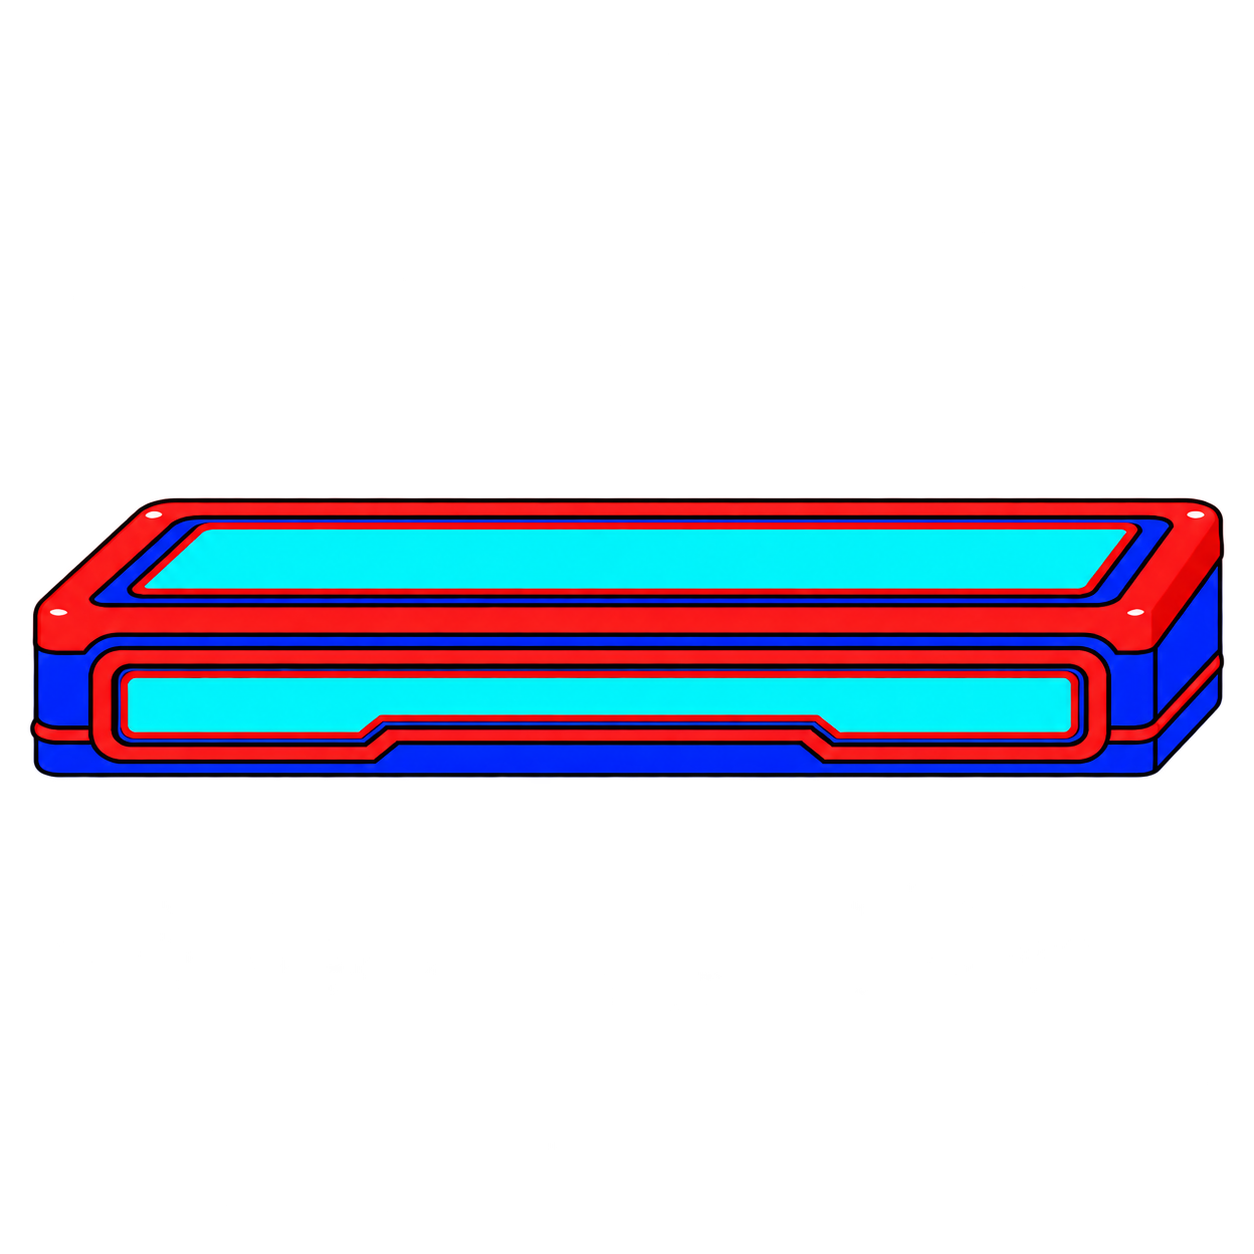
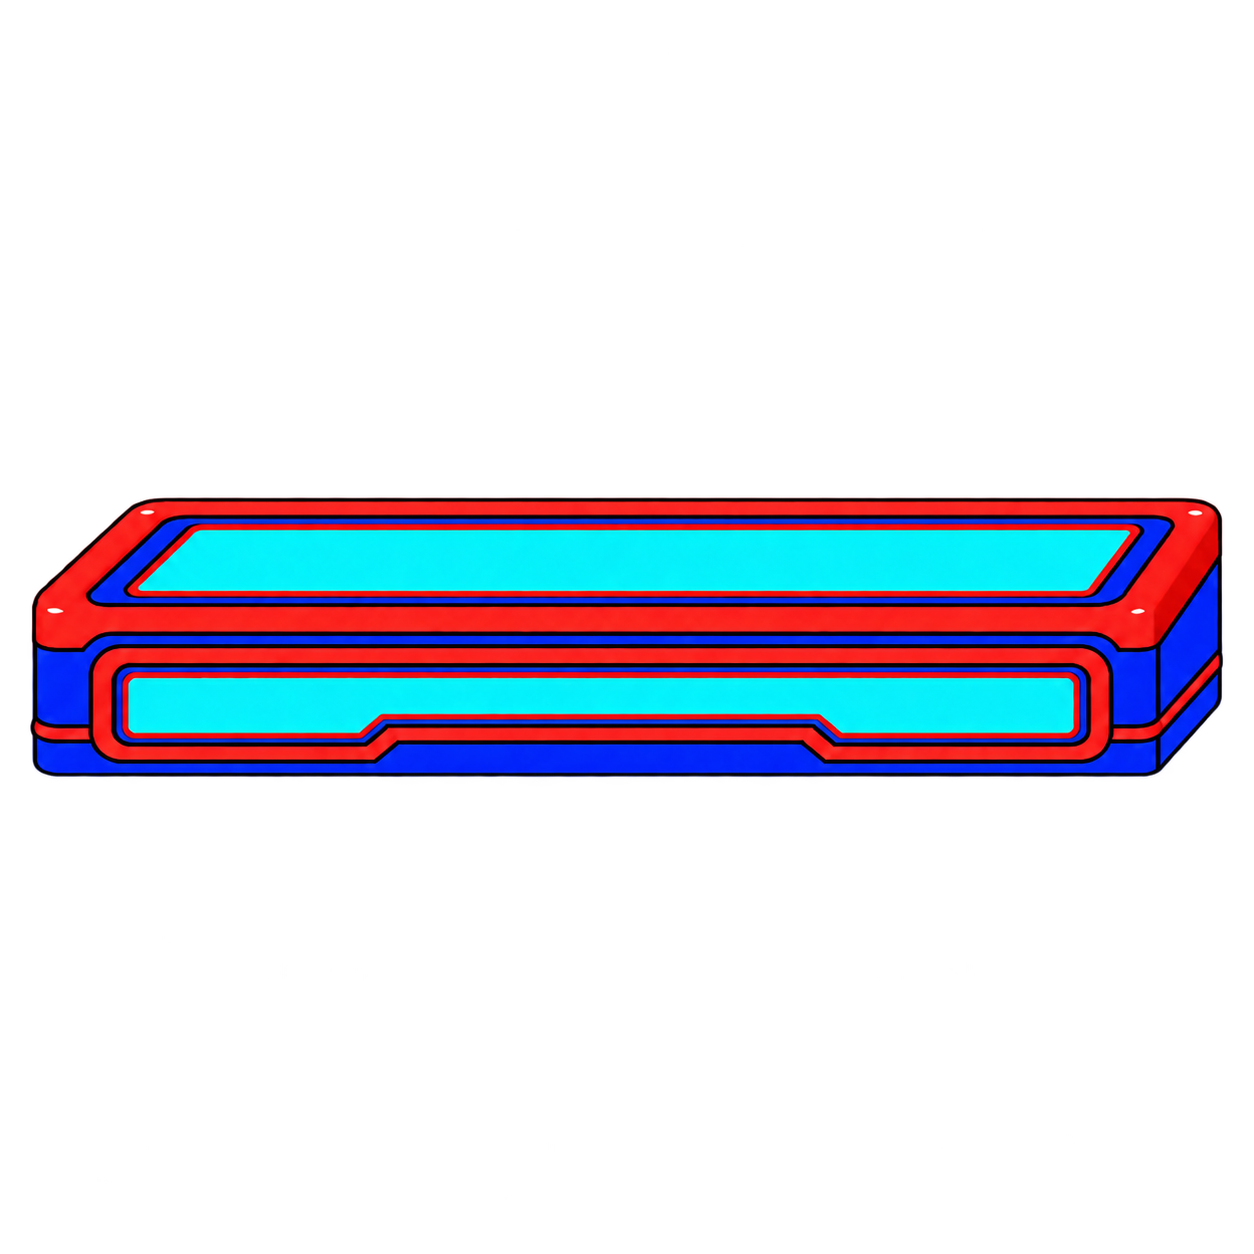
fixing the new stylized version of the flat segmentation mask

Changed region(s): [[0.0, 0.3732, 0.9952, 0.622]]

diff --git a/test/colorize_podium_test.py b/test/colorize_podium_test.py
@@ -693,7 +693,7 @@ def main() -> None:
                 FIRST_PLACE_BOX.exterior_line,
                 FIRST_PLACE_BOX.interior_line,
                 panel_classes=((0, 255, 255),)
-                if size_name == "03_medium"
+                if size_name in ("00_flat", "03_medium")
                 else ((255, 0, 0),),
             ).save(output_path)
             print(f"Generated {output_path}")
